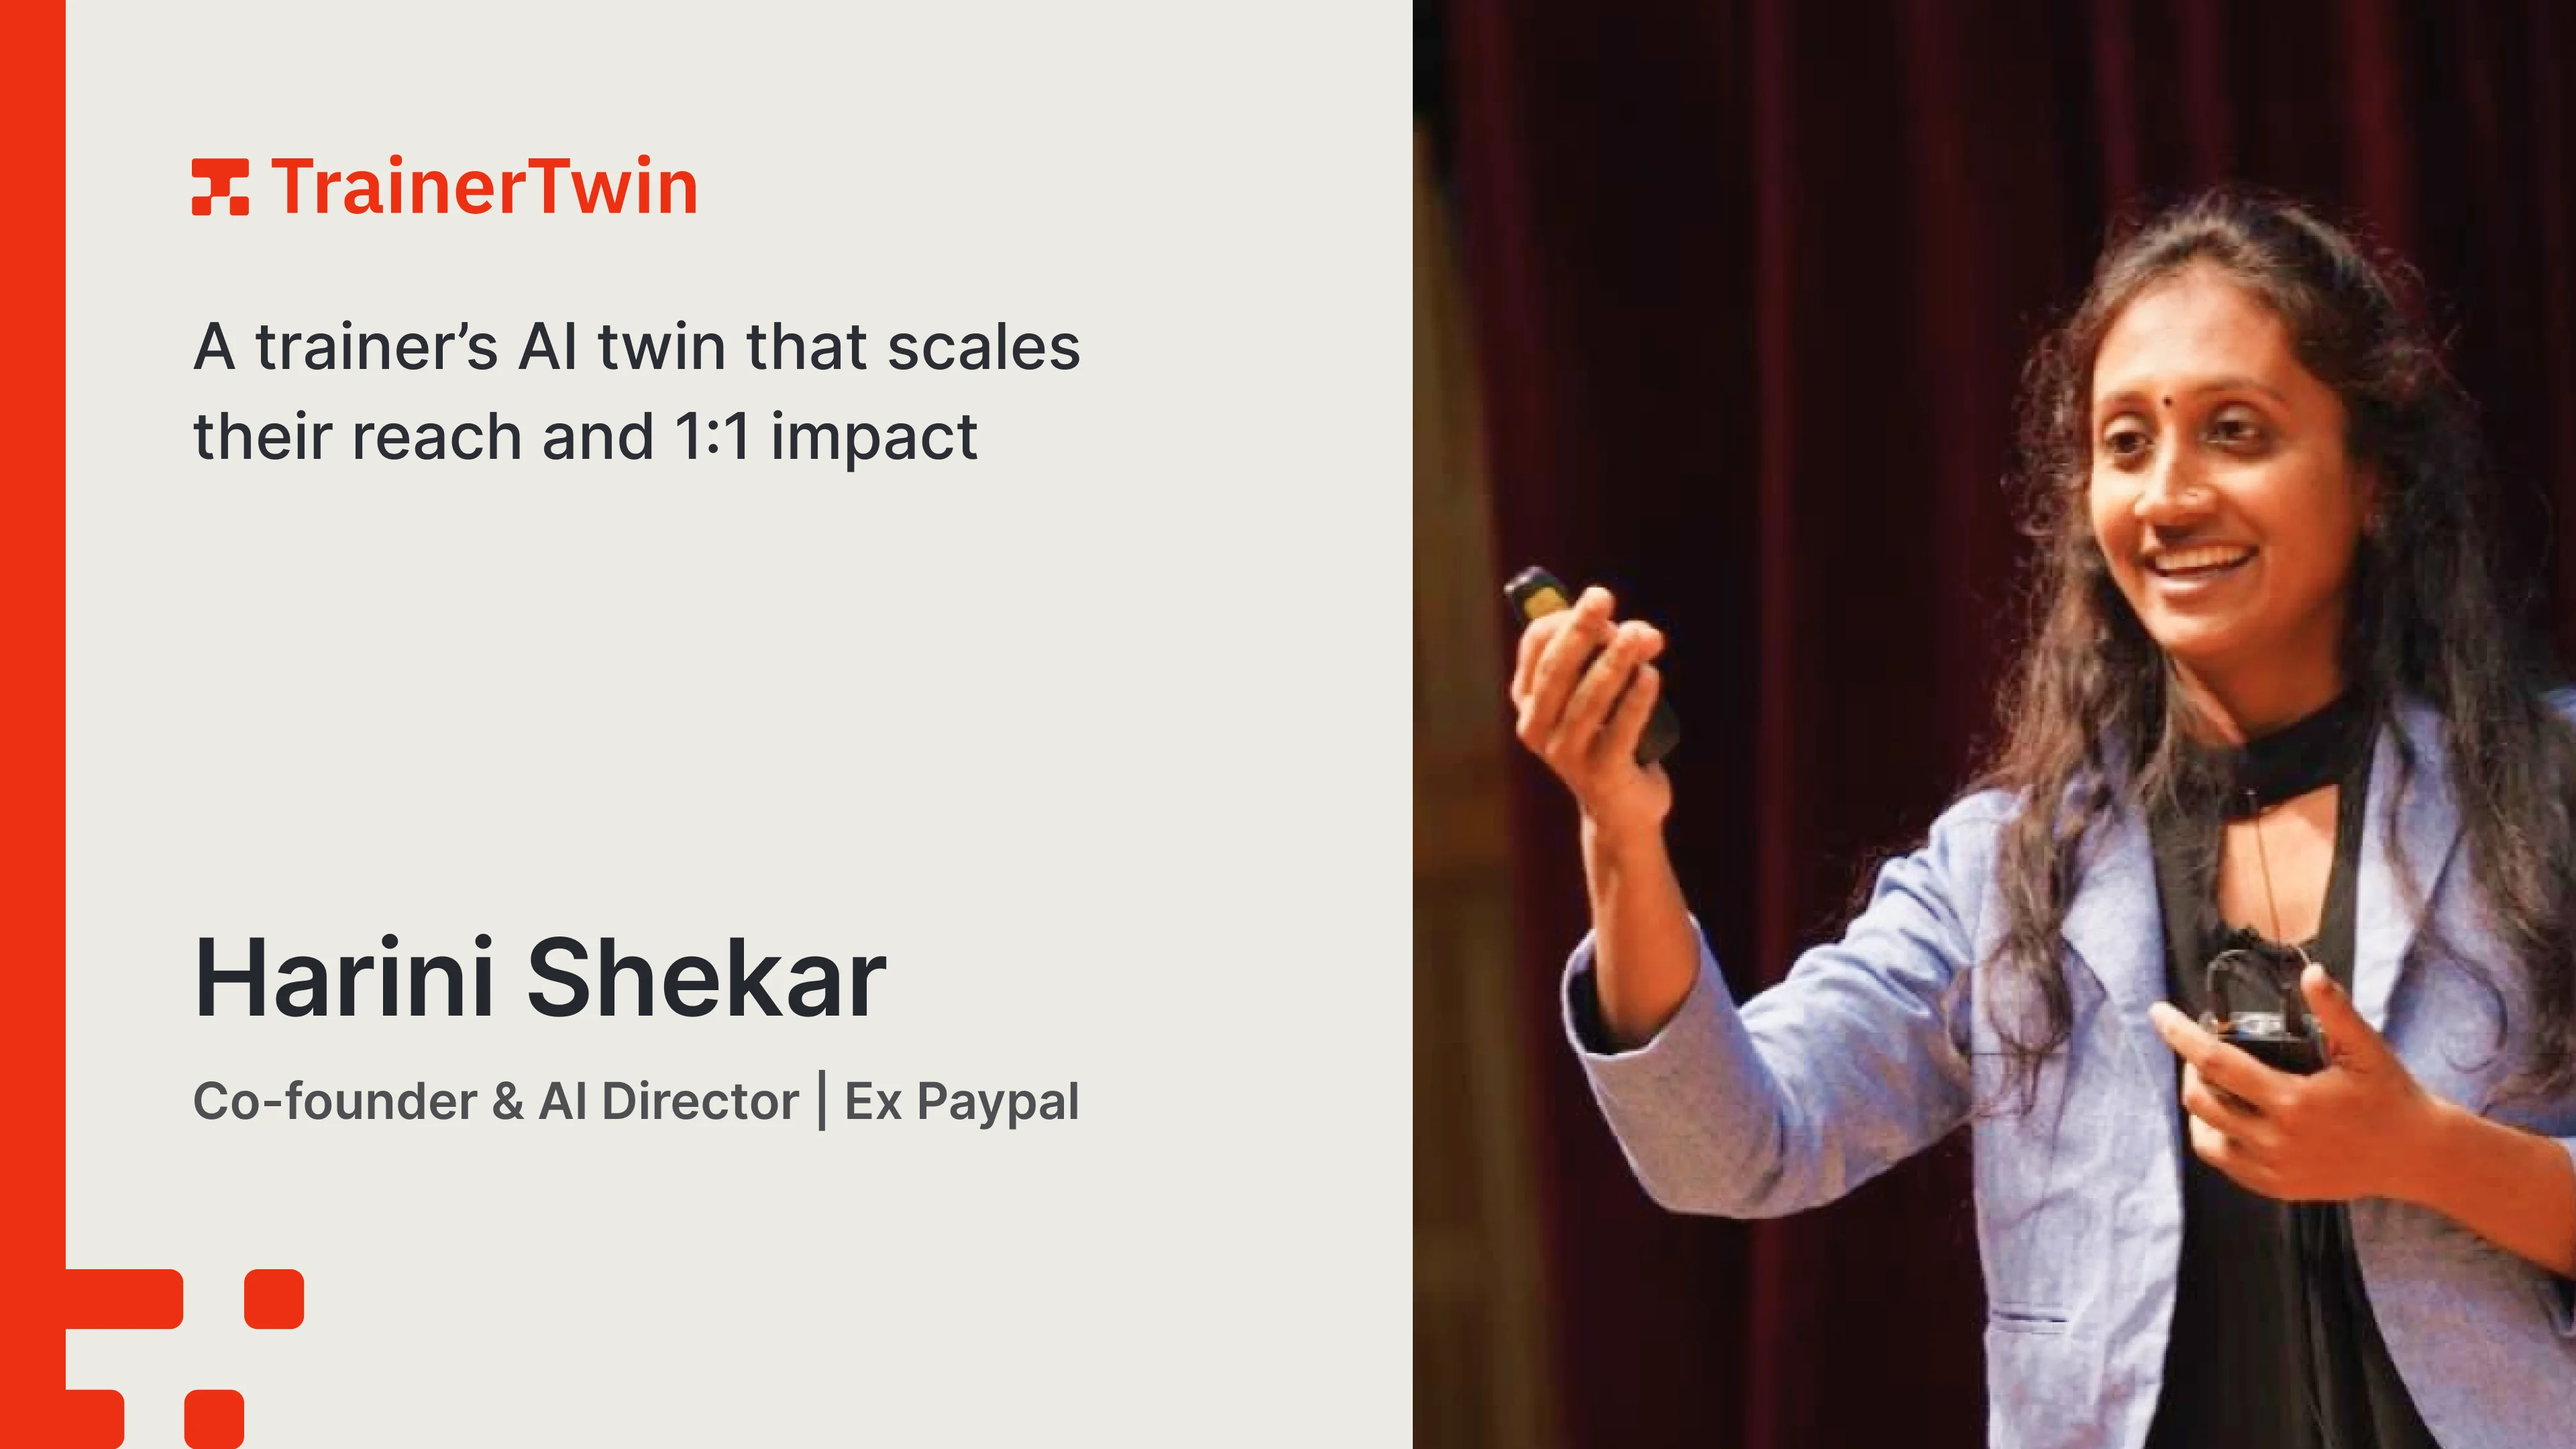
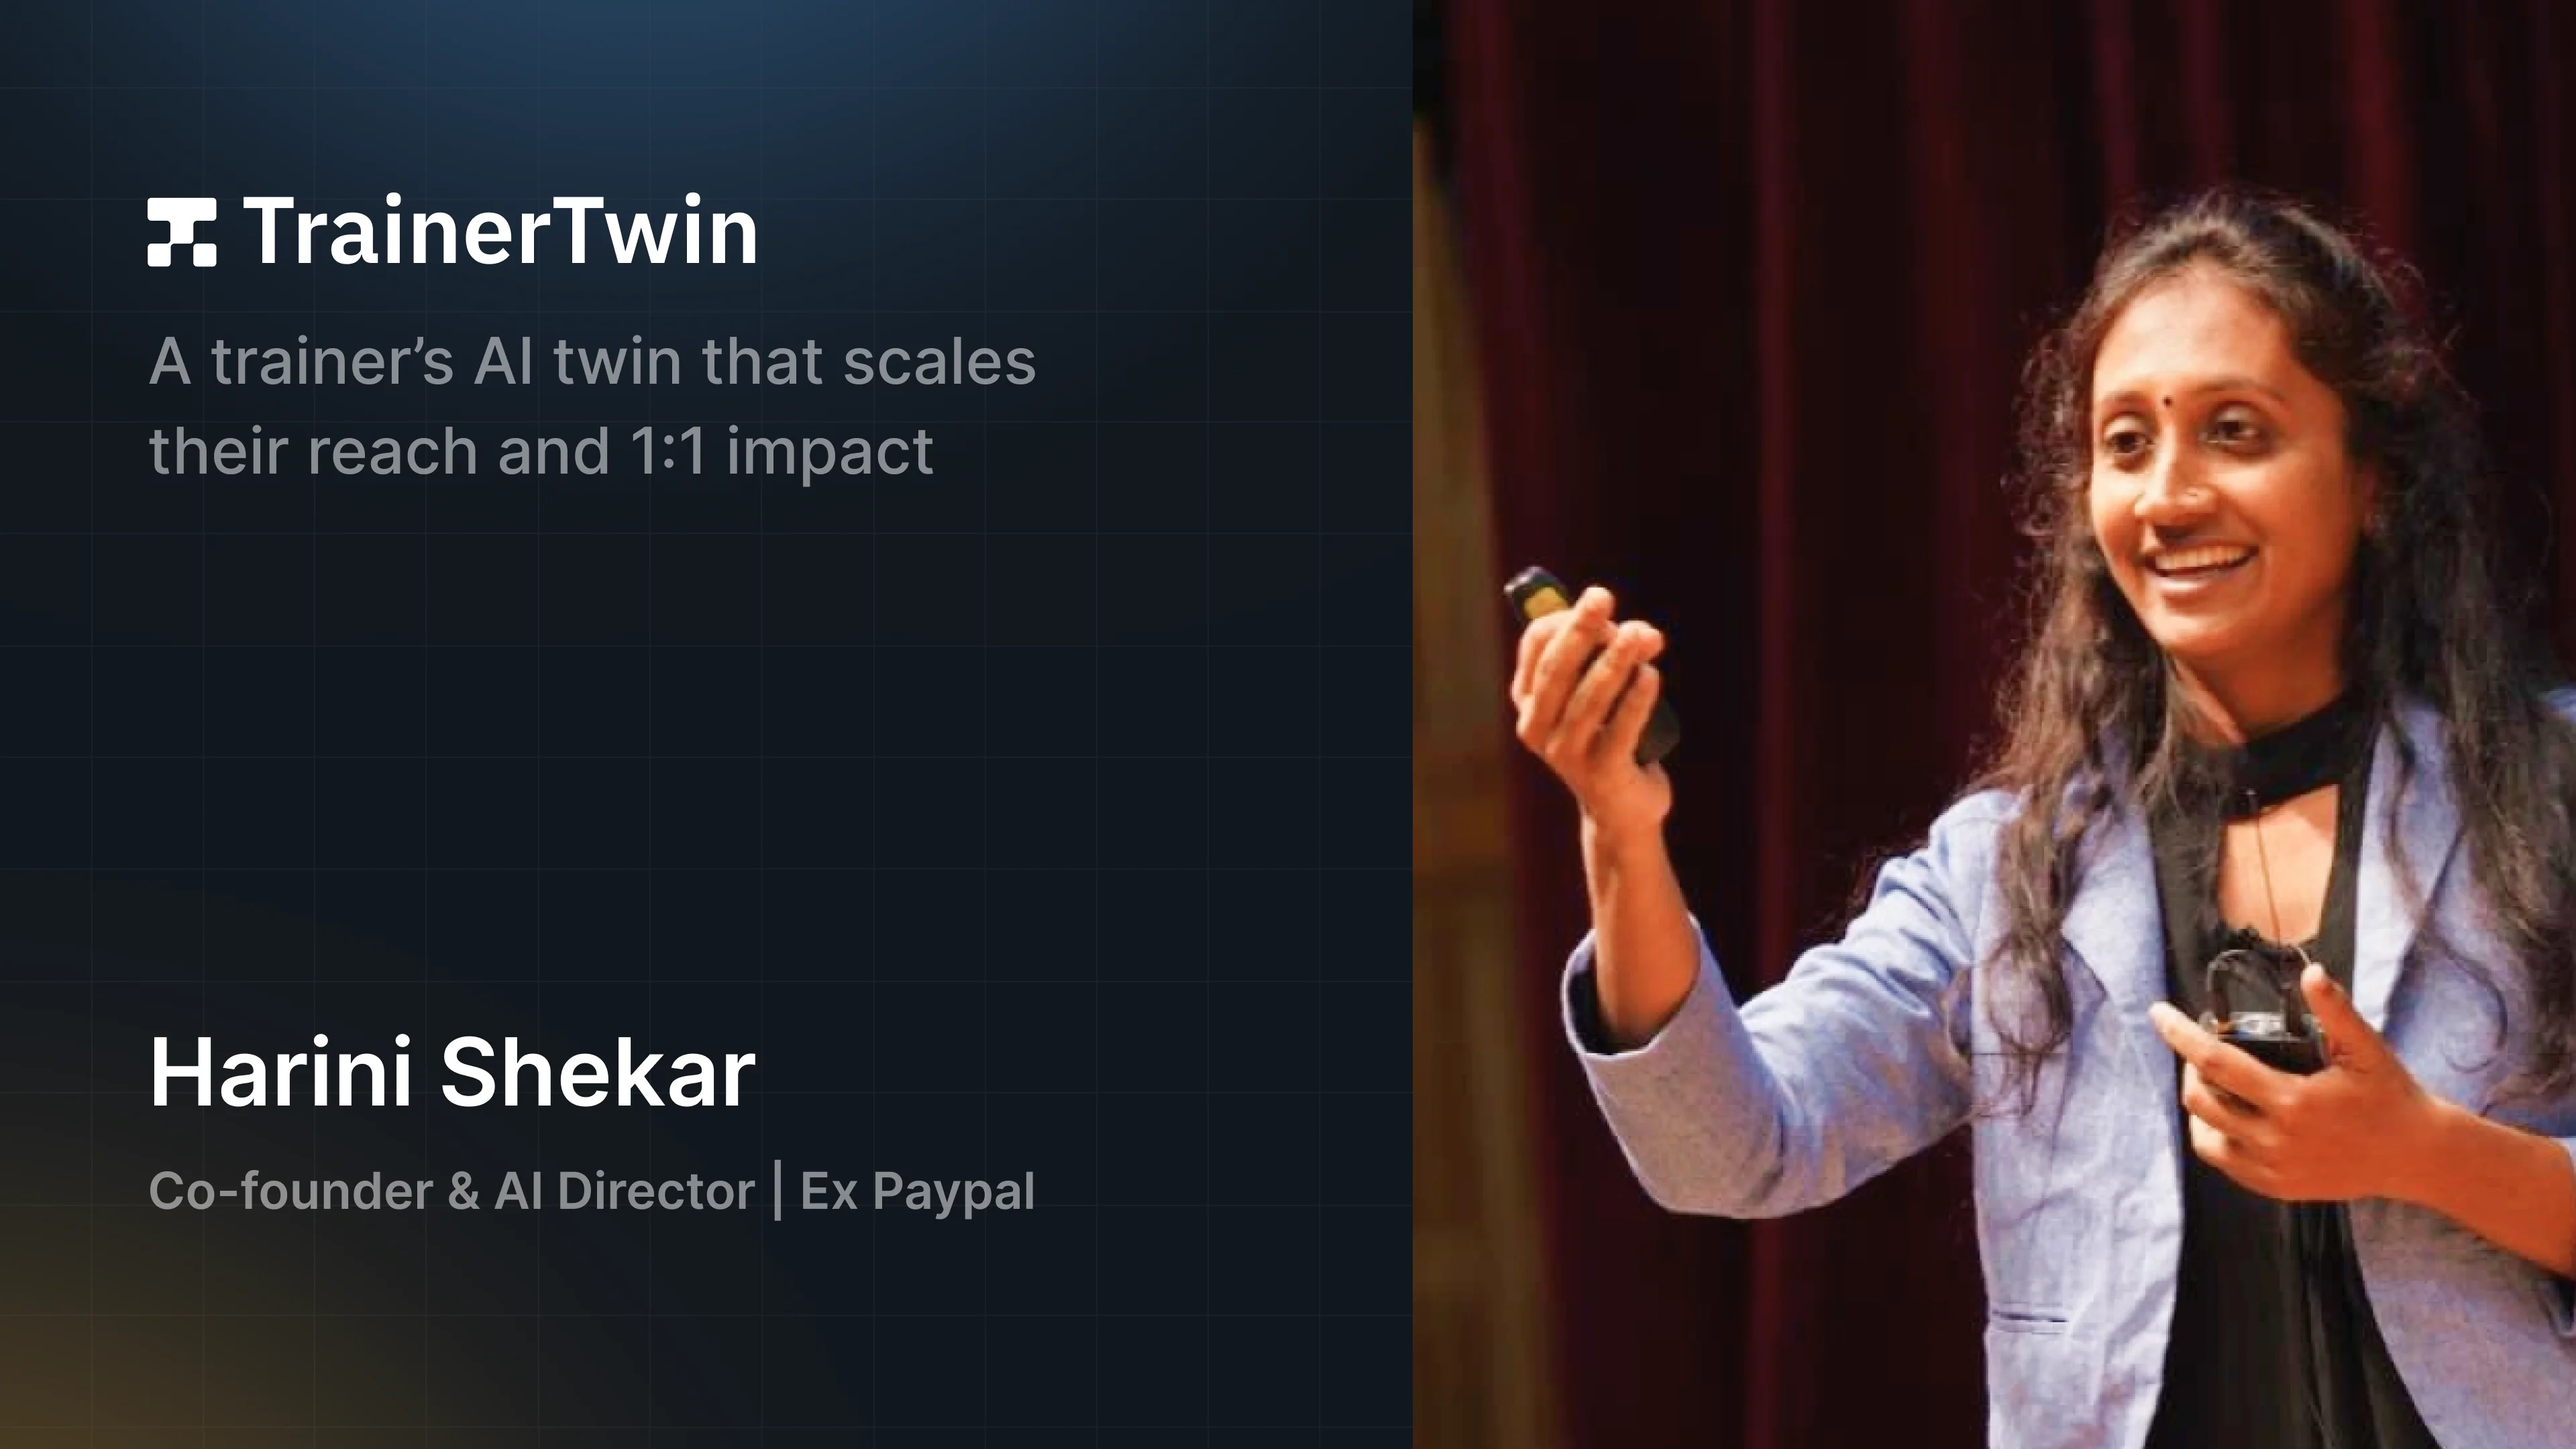
update footer font size and invite video thumbnail

diff --git a/app/invite/page.tsx b/app/invite/page.tsx
@@ -433,21 +433,12 @@ export default function ComingSoon() {
       >
         <div className="max-w-170 mx-auto flex flex-col sm:flex-row justify-between items-start sm:items-center gap-6">
           <div className="flex items-center gap-2.5">
-            <svg
-              width="20"
-              height="15"
-              viewBox="0 0 61 46"
-              fill="none"
-              xmlns="http://www.w3.org/2000/svg"
-            >
-              <path
-                d="M31 15H46V31H31V46H0V0H31V15ZM61 46H46V31H61V46ZM61 15H46V0H61V15Z"
-                fill="#EC3013"
-              />
-            </svg>
-            <span className="font-figtree font-bold text-[16px]">
-              TrainerTwin
-            </span>
+            {/* eslint-disable-next-line @next/next/no-img-element */}
+            <img
+              src="/logo-withname.svg"
+              alt="TrainerTwin"
+              className="h-7 w-auto"
+            />
             <a
               href="/careers"
               className="ml-4 flex items-center gap-1.5 text-[13px] text-muted hover:text-brand transition-colors no-underline!"
@@ -461,7 +452,7 @@ export default function ComingSoon() {
             </a>
           </div>
 
-          <div className="flex items-center gap-6 text-[13px] text-muted">
+          <div className="flex items-center gap-6 text-[5px] text-muted">
             <a
               href="https://www.youtube.com/@TrainerTwin"
               target="_blank"

diff --git a/app/careers/page.tsx b/app/careers/page.tsx
@@ -188,7 +188,7 @@ export default function Careers() {
             </a>
           </div>
 
-          <div className="flex items-center gap-6 text-[13px] text-muted">
+          <div className="flex items-center gap-6 text-[5px] text-muted">
             <a
               href="https://www.youtube.com/@TrainerTwin"
               target="_blank"
